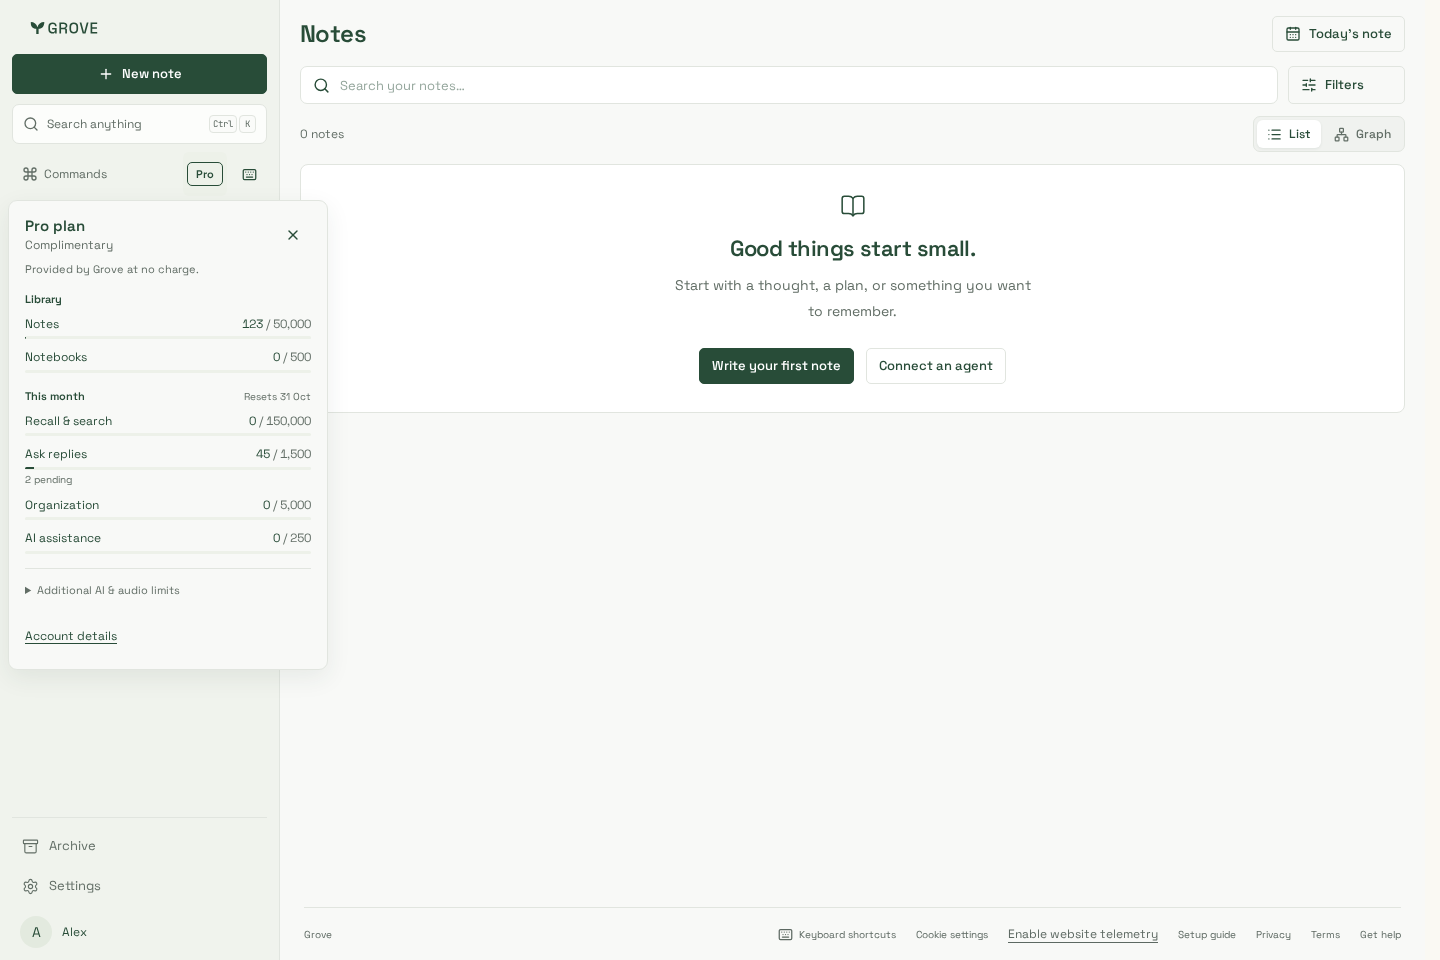
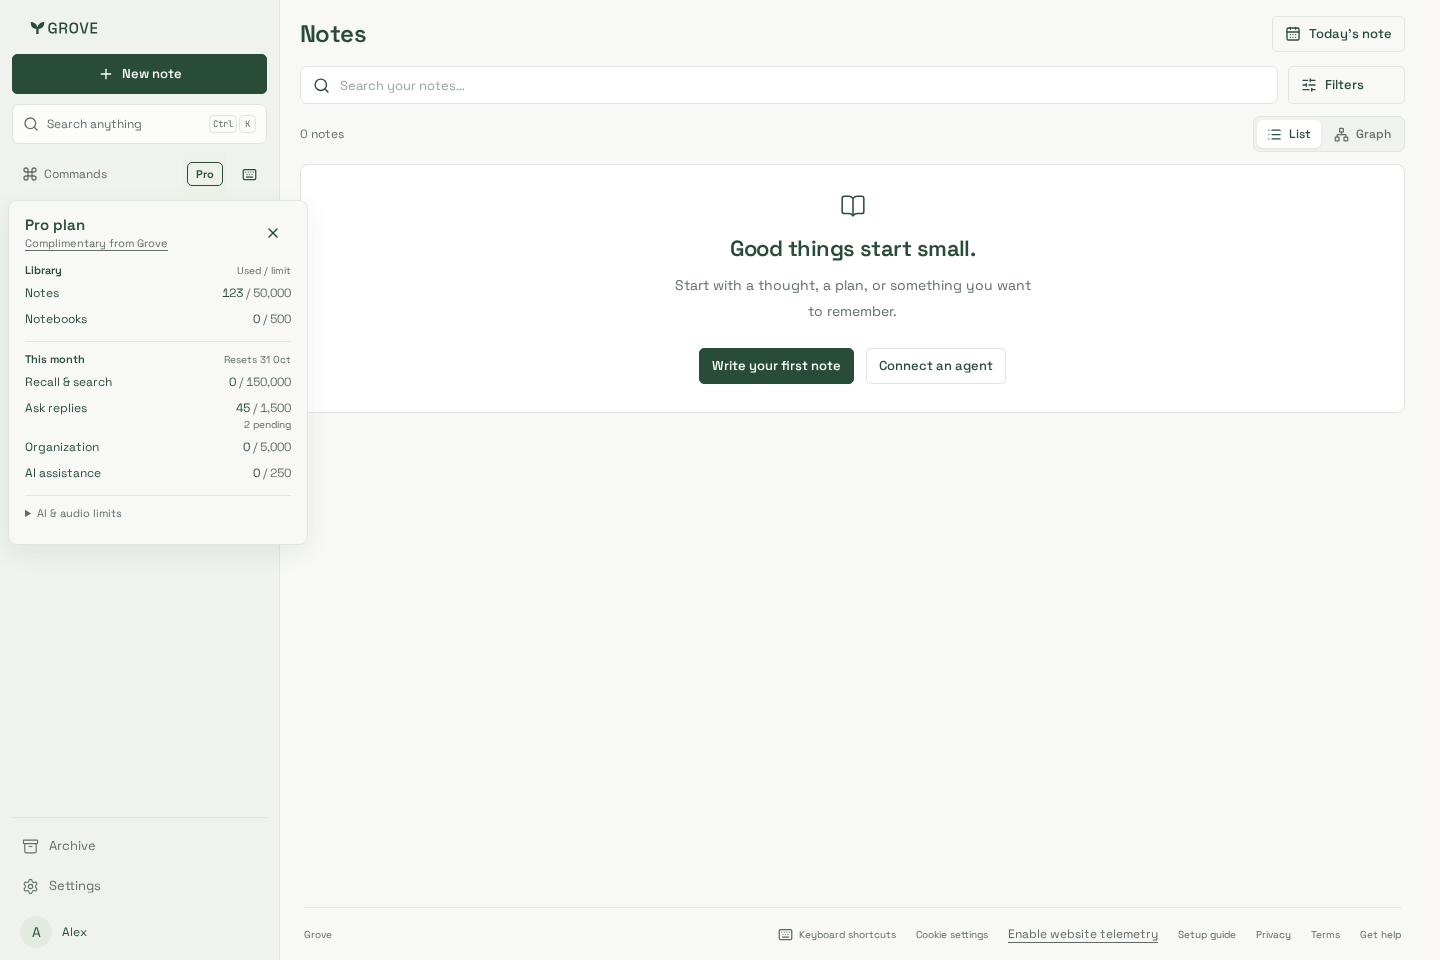
refactor(billing): simplify the usage panel for quick scanning

Changed region(s): [[0.0, 0.2188, 0.125, 0.5625], [0.1562, 0.2812, 0.2188, 0.5312], [0.0312, 0.6562, 0.0625, 0.6875]]

diff --git a/packages/website/src/components/dashboard/account-plan.css b/packages/website/src/components/dashboard/account-plan.css
@@ -73,9 +73,9 @@
 .plan-popover {
   position: fixed;
   inset: auto;
-  width: 320px;
+  width: 300px;
   margin: 0;
-  padding: 14px 16px;
+  padding: 12px 16px;
   overflow-y: auto;
   overscroll-behavior: contain;
   scrollbar-width: thin;
@@ -101,6 +101,18 @@
   font-size: 15px;
   font-weight: 600;
 }
+.plan-popover-account {
+  display: flex;
+  flex-direction: column;
+  justify-content: center;
+  min-width: 0;
+  min-height: 40px;
+}
+.plan-popover-account p {
+  font-size: 11px;
+  text-decoration: underline;
+  text-underline-offset: 3px;
+}
 .plan-popover-heading p,
 .plan-popover-note,
 .plan-usage-count > span {
@@ -116,10 +128,12 @@
   font-size: 11px;
 }
 .plan-usage-breakdown {
-  margin-top: 14px;
+  margin-top: 10px;
 }
 .plan-usage-breakdown > section + section {
-  margin-top: 16px;
+  margin-top: 10px;
+  padding-top: 10px;
+  border-top: 1px solid var(--color-line);
 }
 .plan-usage-section-heading {
   display: flex;
@@ -138,23 +152,23 @@
 }
 .plan-usage-rows {
   display: grid;
-  gap: 10px;
-  margin-top: 8px;
+  gap: 6px;
+  margin-top: 6px;
 }
 .plan-usage-row {
   display: grid;
   grid-template-columns: minmax(0, 1fr) auto;
-  gap: 3px 8px;
+  align-items: baseline;
+  gap: 1px 8px;
+  min-height: 20px;
 }
 .plan-usage-count {
   text-align: right;
   font-variant-numeric: tabular-nums;
 }
-.plan-usage-meter,
 .plan-usage-pending {
-  grid-column: 1 / -1;
-}
-.plan-usage-pending {
+  grid-column: 2;
+  text-align: right;
   color: var(--color-muted);
   font-size: 10px;
 }
@@ -162,29 +176,8 @@
   color: var(--color-forest);
   font-weight: 600;
 }
-.plan-usage-meter meter {
-  display: block;
-  width: 100%;
-  height: 3px;
-  appearance: none;
-  overflow: hidden;
-  border: 0;
-  border-radius: 2px;
-  background: var(--color-sage);
-}
-.plan-usage-meter meter::-webkit-meter-bar {
-  border: 0;
-  background: var(--color-sage);
-}
-.plan-usage-meter meter::-webkit-meter-optimum-value {
-  background: var(--color-leaf);
-}
-.plan-usage-meter meter::-moz-meter-bar {
-  background: var(--color-leaf);
-}
 .plan-extra-limits {
-  margin-top: 14px;
-  padding-top: 4px;
+  margin-top: 10px;
   border-top: 1px solid var(--color-line);
 }
 .plan-extra-limits summary {
@@ -193,14 +186,6 @@
   cursor: pointer;
   color: var(--color-muted);
   font-size: 11px;
-}
-.plan-popover-link {
-  display: inline-flex;
-  align-items: center;
-  min-height: 36px;
-  margin-top: 10px;
-  text-decoration: underline;
-  text-underline-offset: 3px;
 }
 .plan-popover-error {
   display: flex;
@@ -225,7 +210,7 @@
     grid-row: 4;
   }
   .plan-popover .app-icon,
-  .plan-popover-link,
+  .plan-popover-account,
   .plan-extra-limits summary,
   .plan-popover-error button {
     min-height: 44px;

diff --git a/packages/website/src/components/dashboard/account-plan.tsx b/packages/website/src/components/dashboard/account-plan.tsx
@@ -204,12 +204,23 @@ export function WorkspacePlan() {
         }}
       >
         <header className="plan-popover-heading">
-          <div>
+          <Link
+            className="plan-popover-account"
+            href="/app/settings/account#account-plan"
+            aria-label="Account details"
+            onClick={close}
+          >
             <h3 id={`${id}-heading`}>
               {plan ? `${planNames[plan.tier]} plan` : "Your plan"}
             </h3>
-            {plan ? <p>{planSources[plan.source]}</p> : null}
-          </div>
+            {plan ? (
+              <p>
+                {plan.source === "complimentary"
+                  ? "Complimentary from Grove"
+                  : planSources[plan.source]}
+              </p>
+            ) : null}
+          </Link>
           <button
             type="button"
             className="app-icon"
@@ -222,9 +233,6 @@ export function WorkspacePlan() {
             <X size={16} aria-hidden="true" />
           </button>
         </header>
-        {plan?.source === "complimentary" ? (
-          <p className="plan-popover-note">Provided by Grove at no charge.</p>
-        ) : null}
         {usage.isError ? (
           <div className="plan-popover-error" role="alert">
             <p>
@@ -251,13 +259,6 @@ export function WorkspacePlan() {
             Usage details aren’t available yet.
           </p>
         )}
-        <Link
-          className="plan-popover-link"
-          href="/app/settings/account#account-plan"
-          onClick={close}
-        >
-          Account details
-        </Link>
       </div>
     </div>
   );

diff --git a/packages/website/src/components/dashboard/plan-usage.tsx b/packages/website/src/components/dashboard/plan-usage.tsx
@@ -44,17 +44,6 @@ function ResourceRows({
                 / {value.limit === null ? "Unlimited" : number(value.limit)}
               </span>
             </dd>
-            {value.limit !== null ? (
-              <dd className="plan-usage-meter">
-                <meter
-                  aria-label={`${labels[key]} usage`}
-                  aria-valuetext={`${number(value.used)} used, ${number(value.reserved)} pending, of ${number(value.limit)}`}
-                  value={Math.min(total, Math.max(1, value.limit))}
-                  min={0}
-                  max={Math.max(1, value.limit)}
-                />
-              </dd>
-            ) : null}
             {value.reserved > 0 || full ? (
               <dd className="plan-usage-pending">
                 {value.reserved > 0
@@ -88,7 +77,10 @@ export function PlanUsageBreakdown({
       {resources ? (
         <>
           <section aria-label="Library limits">
-            <h4>Library</h4>
+            <div className="plan-usage-section-heading">
+              <h4>Library</h4>
+              <span>Used / limit</span>
+            </div>
             <ResourceRows
               usage={resources}
               resources={["notes", "notebooks"]}
@@ -113,7 +105,7 @@ export function PlanUsageBreakdown({
       ) : null}
       {usage ? (
         <details className="plan-extra-limits">
-          <summary>Additional AI & audio limits</summary>
+          <summary>AI & audio limits</summary>
           <dl className="plan-usage-rows">
             {(
               ["generation", "research", "transcription", "synthesis"] as const

diff --git a/documentation/delivery.md b/documentation/delivery.md
@@ -28,7 +28,7 @@ used/pending/configured limits, tenant/agent isolation, hidden-purchase Unlimite
 and unconfigured usage snapshots. Full **435 backend cases pass**, with four
 optional-service skips; **65 focused billing/action/admin** checks also pass.
 Root/site lint, type checks and builds pass, with all **nine packaged artifacts**.
-Production build `ExmR7RFBWjDQiTzhI3ehM` passes the Notes entry budget at **491,712
+Production build `vb8B5nPqgh71PSfuIVlul` passes the Notes entry budget at **491,632
 gzip bytes**, keeping the editor deferred.
 
 [Four reviewed captures](design/screenshots/subscription-badge/README.md) use
@@ -41,8 +41,16 @@ A reproduced hover-dismiss→keyboard-focus failure now passes after replacing t
 sticky dismissal flag with actual focus provenance. Simultaneous failures share
 one recovery action. The shared workspace browser fixture
 now accepts the badge's new `/me` read; its reproduced failing notebook case passes
-after that fixture-only adjustment. The final full **239-case Chromium suite** and
-seven existing iPhone/WebKit settings/sidebar regressions pass with zero failures.
+after that fixture-only adjustment. The prior implementation passes the full
+**239-case Chromium suite** and seven existing iPhone/WebKit settings/sidebar cases.
+
+The final UI-only simplification removes six repeated meters, duplicate
+complimentary prose and the separate footer action. Used/limit rows retain pending
+and exhaustion labels; the linked plan heading/source opens Account. The collapsed
+panel is at most365px high across all five plans at1440/390/320px. Both engines
+pass all24 targeted journeys again, with **17 affected Chromium** navigation/settings
+checks, nine artifacts, root/site lint/types/builds and the bundle gate passing.
+Backend/API policy is unchanged by this final visual pass.
 
 ## Free/Pro storage and action allowances (25 October 2026)
 

diff --git a/documentation/design/screenshots/subscription-badge/README.md b/documentation/design/screenshots/subscription-badge/README.md
@@ -6,7 +6,10 @@ HTTP responses only. No customer data, real payment or live-provider change.
 The small outlined badge shares existing utility controls; it adds no mobile row.
 Hover/focus reveals the subscription source and actual used/limit counts. Click/tap
 keeps it open, with the same details available to touch/keyboard users. Additional
-provider/audio limits are collapsed. Account details remain reachable while Billing
+provider/audio limits are collapsed. Text-only rows, one source line and a linked
+plan heading replace repeated meters, duplicate copy and a separate footer action.
+The collapsed panel stays below365px high in the five-plan/three-width checks.
+Account details remain reachable while Billing
 is hidden. Existing account typography, palette and notebook navigation are retained.
 
 | Compact badge at rest | Usage on hover, desktop | Usage on phone | Unlimited at 320px |

diff --git a/documentation/billing.md b/documentation/billing.md
@@ -25,6 +25,11 @@ budgets sit behind a disclosure. Click or tap to keep the panel open. Escape,
 outside press or leaving the panel dismisses it. **Account details** opens
 **Settings → Account → Your plan**.
 
+The breakdown uses compact text rows rather than repeating a meter for every
+allowance. The linked plan heading/source opens Account details, without a separate
+footer action. Used and pending amounts remain distinct; exhausted limits stay
+explicit rather than relying on color.
+
 The panel distinguishes **Paid subscription**, **Trial subscription**, and
 **Complimentary** access provided by the Grove team at no charge. Complimentary
 access remains visible when purchases are hidden; it never cancels a separate
